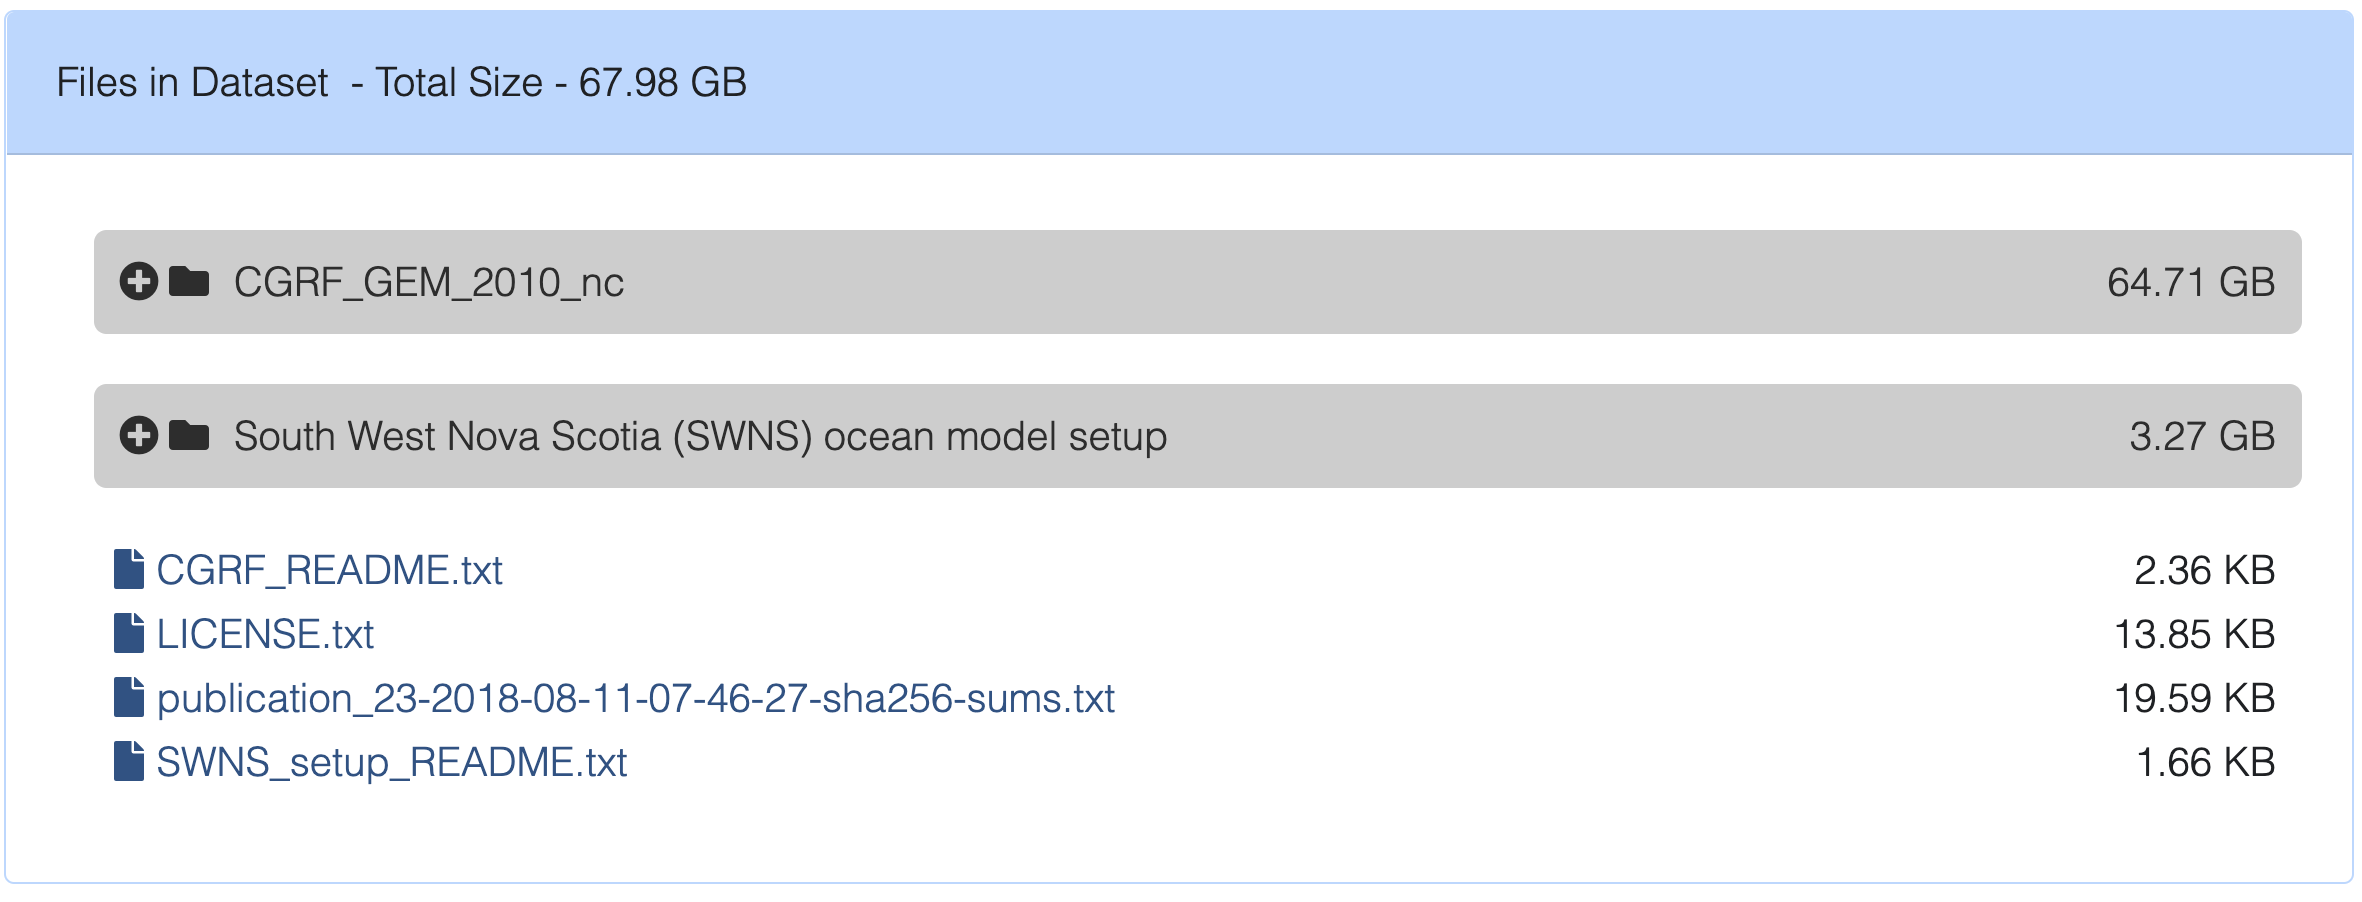
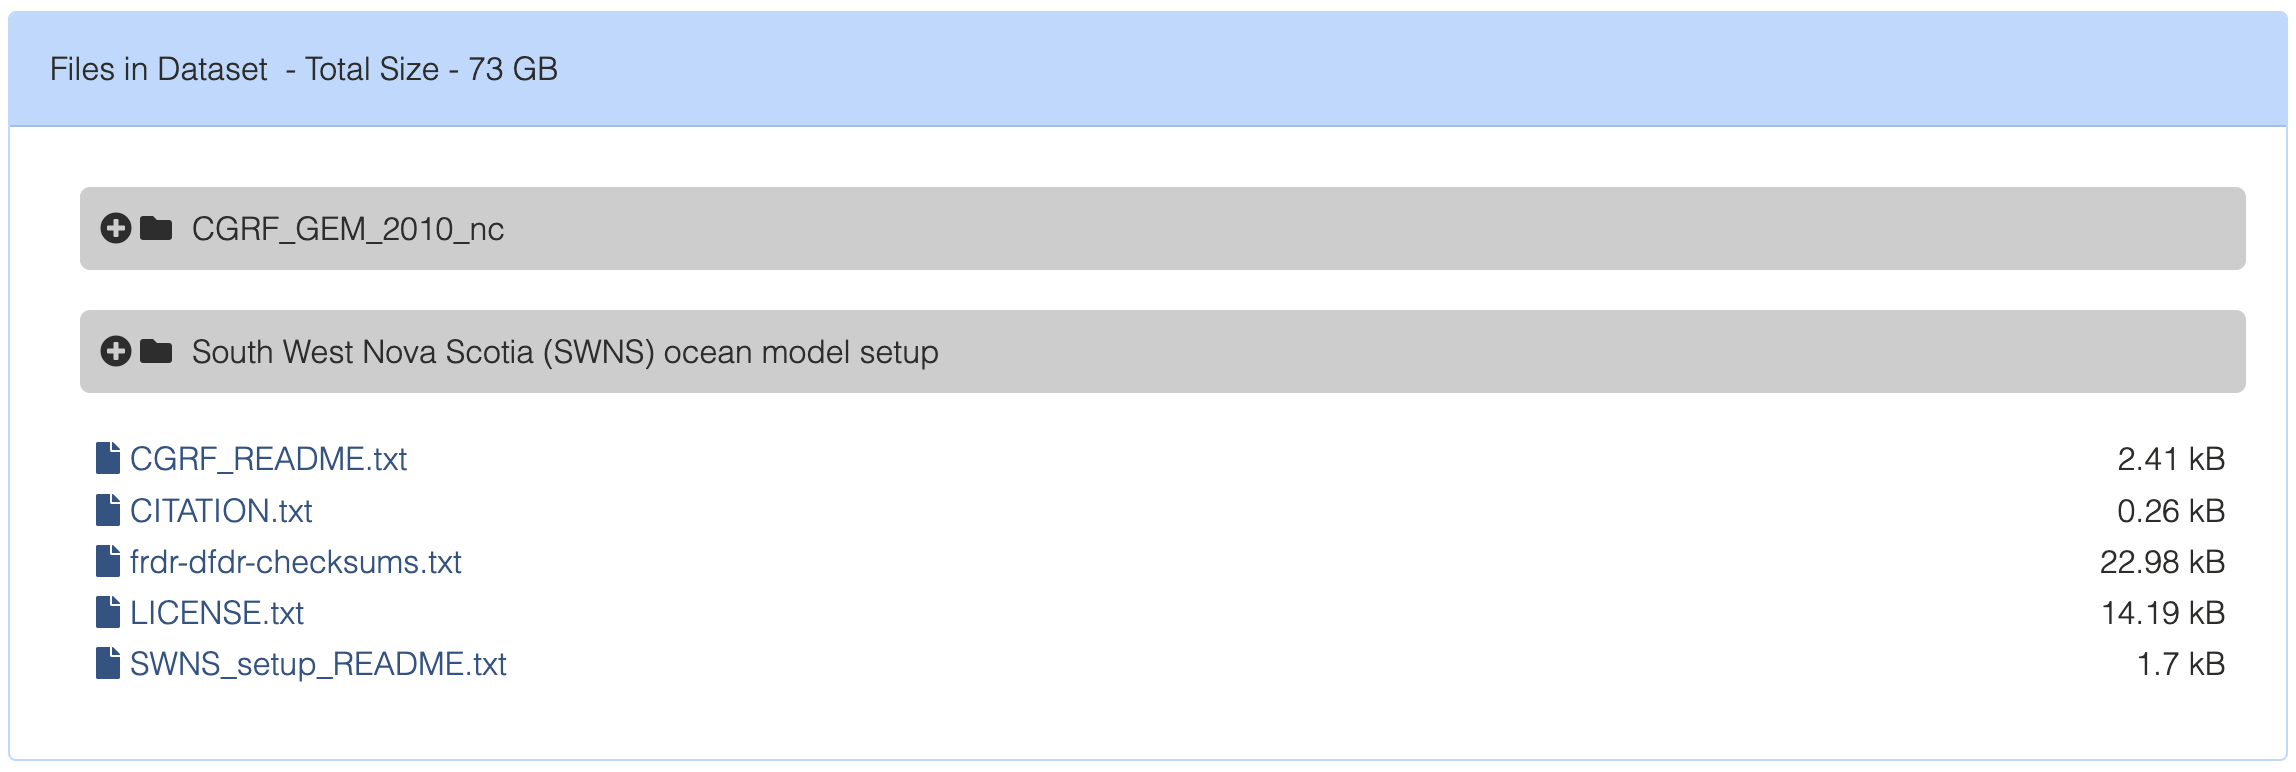
Update frdr checksums file references in body text and images (changed name and description)

diff --git a/docs/fr/après_le_dépôt.md b/docs/fr/après_le_dépôt.md
@@ -20,7 +20,7 @@ Remarque : Les modifications proposées par les curateur(-trice)s ne sont apport
 
 Un certain nombre d’activités sont menées dans le DFDR pour assurer l’utilisabilité et l’accessibilité à long terme des données, y compris l’identification, la validation, la caractérisation et la normalisation des fichiers. Ces activités sont collectivement appelées « préservation numérique ».
 
-Une fois que le jeu de données a été approuvé par un(e) curateur(-trice), les [sommes de contrôle](https://fr.wikipedia.org/wiki/Somme_de_contr%C3%B4le) sont calculées pour chaque fichier du jeu de données, puis enregistrées dans un fichier texte (frdr-checksums-and-filetypes.md) avec le nom de chaque fichier et l’information sur le format. Les chercheur(-se)s peuvent télécharger ces renseignements à partir de la page de le jeux de données dans le DFDR et valider indépendamment l’intégrité des fichiers de données. Les sommes de contrôle sont calculées à l’aide l’algorithme [SHA-256](https://fr.wikipedia.org/wiki/SHA-2), lequel peut être validé au moyen de l’interface graphique [QuickHash GUI](https://www.quickhash-gui.org/).
+Une fois que le jeu de données a été approuvé par un(e) curateur(-trice), les [sommes de contrôle](https://fr.wikipedia.org/wiki/Somme_de_contr%C3%B4le) sont calculées pour chaque fichier du jeu de données, puis enregistrées dans un fichier texte (frdr-dfdr-checksums.txt) avec le nom de chaque fichier. Les chercheur(-se)s peuvent télécharger ces renseignements à partir de la page de le jeux de données dans le DFDR et valider indépendamment l’intégrité des fichiers de données. Les sommes de contrôle sont calculées à l’aide l’algorithme [SHA-256](https://fr.wikipedia.org/wiki/SHA-2), lequel peut être validé au moyen de l’interface graphique [QuickHash GUI](https://www.quickhash-gui.org/).
 
 Le DFDR favorise la préservation au niveau des bits pour les jeux de données déposés. Les jeux de données pourraient être évalués et sélectionnés en vue de faire l’objet d’un traitement pour préservation plus poussé au moyen du logiciel [Archivematica](https://www.archivematica.org/fr/). Les fichiers de données et les métadonnées sont regroupés dans un [paquet d’information archivé (AIP)](https://www.archivematica.org/fr/docs/archivematica-1.13/user-manual/archival-storage/aip-structure/#), qui contient des copies des fichiers de données soumis, tout fichier ayant été [normalisé](https://www.archivematica.org/fr/docs/archivematica-1.13/user-manual/ingest/ingest/#normalize) aux fins de préservation, les métadonnées du DFDR ainsi que d’autres documents pertinents, les sommes de contrôle et un fichier METS. Les AIP sont alors stockés auprès d’un fournisseur de services de préservation ([SciNet – Université de Toronto](https://www.scinethpc.ca/)), qui en vérifiera la fixité et les soumettra à d’autres traitements, au besoin. Pendant le transfert des AIP, les jeux de données sont également conservés dans les serveurs du DFDR afin de demeurer accessibles.
 

diff --git a/docs/en/after_depositing.md b/docs/en/after_depositing.md
@@ -19,7 +19,7 @@ Note: Curator suggested changes are only implemented with the approval of the de
 
 FRDR carries out a number of activities to support the long-term accessibility and usability of data, including file identification, validation, characterization, and normalization. These activities are collectively referred to as digital preservation. 
 
-After a dataset is approved by a curator, [checksums](https://en.wikipedia.org/wiki/Checksum) are calculated for each file in the dataset and recorded in a text file (frdr-checksums-and-filetypes.md) along with file name and format information. Researchers can download this information from the dataset page on FRDR and independently validate the integrity of the data files. Checksums are calculated using the [SHA-256](https://en.wikipedia.org/wiki/SHA-2) algorithm, which can be validated using [QuickHash GUI](https://www.quickhash-gui.org/).
+After a dataset is approved by a curator, [checksums](https://en.wikipedia.org/wiki/Checksum) are calculated for each file in the dataset and recorded in a text file (frdr-dfdr-checksums.txt) along with the file name. Researchers can download this information from the dataset page on FRDR and independently validate the integrity of the data files. Checksums are calculated using the [SHA-256](https://en.wikipedia.org/wiki/SHA-2) algorithm, which can be validated using [QuickHash GUI](https://www.quickhash-gui.org/).
 
 FRDR supports bit-level preservation for deposited datasets. Datasets may undergo appraisal and selection for additional preservation processing using [Archivematica](https://www.archivematica.org)  software. Data files and metadata are bundled together into an [Archival Information Package (AIP)](https://www.archivematica.org/en/docs/archivematica-1.13/user-manual/archival-storage/aip-structure/#) which contains copies of the submitted data files along with any files that have been [normalized](https://www.archivematica.org/en/docs/archivematica-1.13/user-manual/ingest/ingest/#normalize) for preservation, FRDR metadata and other relevant documentation, checksums, and a METS file. These AIPs are then stored with a Preservation Service Provider ([SciNet / University of Toronto](https://www.scinethpc.ca/)), where they will undergo fixity checking and further processing if necessary. While the AIPs are transferred, the datasets are also retained on FRDR servers for access purposes.
 

diff --git a/docs/fr/faq.md b/docs/fr/faq.md
@@ -407,7 +407,7 @@ Plusieurs raisons peuvent expliquer ce problème :
 ######2. Quels outils puis-je utiliser pour calculer la somme de contrôle?
 </summary>
 
-Les utilisateur(-trice)s peuvent télécharger le fichier « frdr-checksums-and-filetypes.md » à partir de l’interface du DFDR pour chaque jeu de données et valider les fichiers de données individuellement à tout moment.
+Les utilisateur(-trice)s peuvent télécharger le fichier « frdr-dfdr-checksums.txt » à partir de l’interface du DFDR pour chaque jeu de données et valider les fichiers de données individuellement à tout moment.
 
 Voici un outil gratuit pour calculer les sommes de contrôle SHA-256 : https://quickhash-gui.org/.
 </details>

diff --git a/docs/en/faq.md b/docs/en/faq.md
@@ -397,7 +397,7 @@ It might be for a few reasons:
 ######2. What tool can I use to calculate checksums?
 </summary>
 
-Users can download a frdr-checksums-and-filetypes.md file from the FRDR interface for each dataset and independently validate data files at any time.
+Users can download a frdr-dfdr-checksums.txt file from the FRDR interface for each dataset and independently validate data files at any time.
 
 There is a free tool to calculate SHA-256 checksums here: https://quickhash-gui.org/
 </details>
